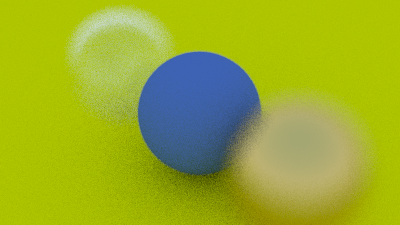
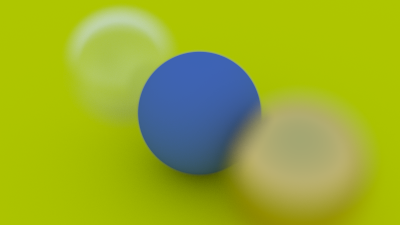
okay

Changed region(s): [[0.15, 0.0, 0.45, 0.56]]

diff --git a/src/main.rs b/src/main.rs
@@ -38,7 +38,7 @@ fn main() {
     let aspect_ratio = 16.0 / 9.0;
     let image_width: u32 = 400;
     let image_height: u32 = (image_width as f64 / aspect_ratio) as u32;
-    let samples_per_pixel = 50;
+    let samples_per_pixel = 5000;
     let max_depth = 10;
 
     // World
